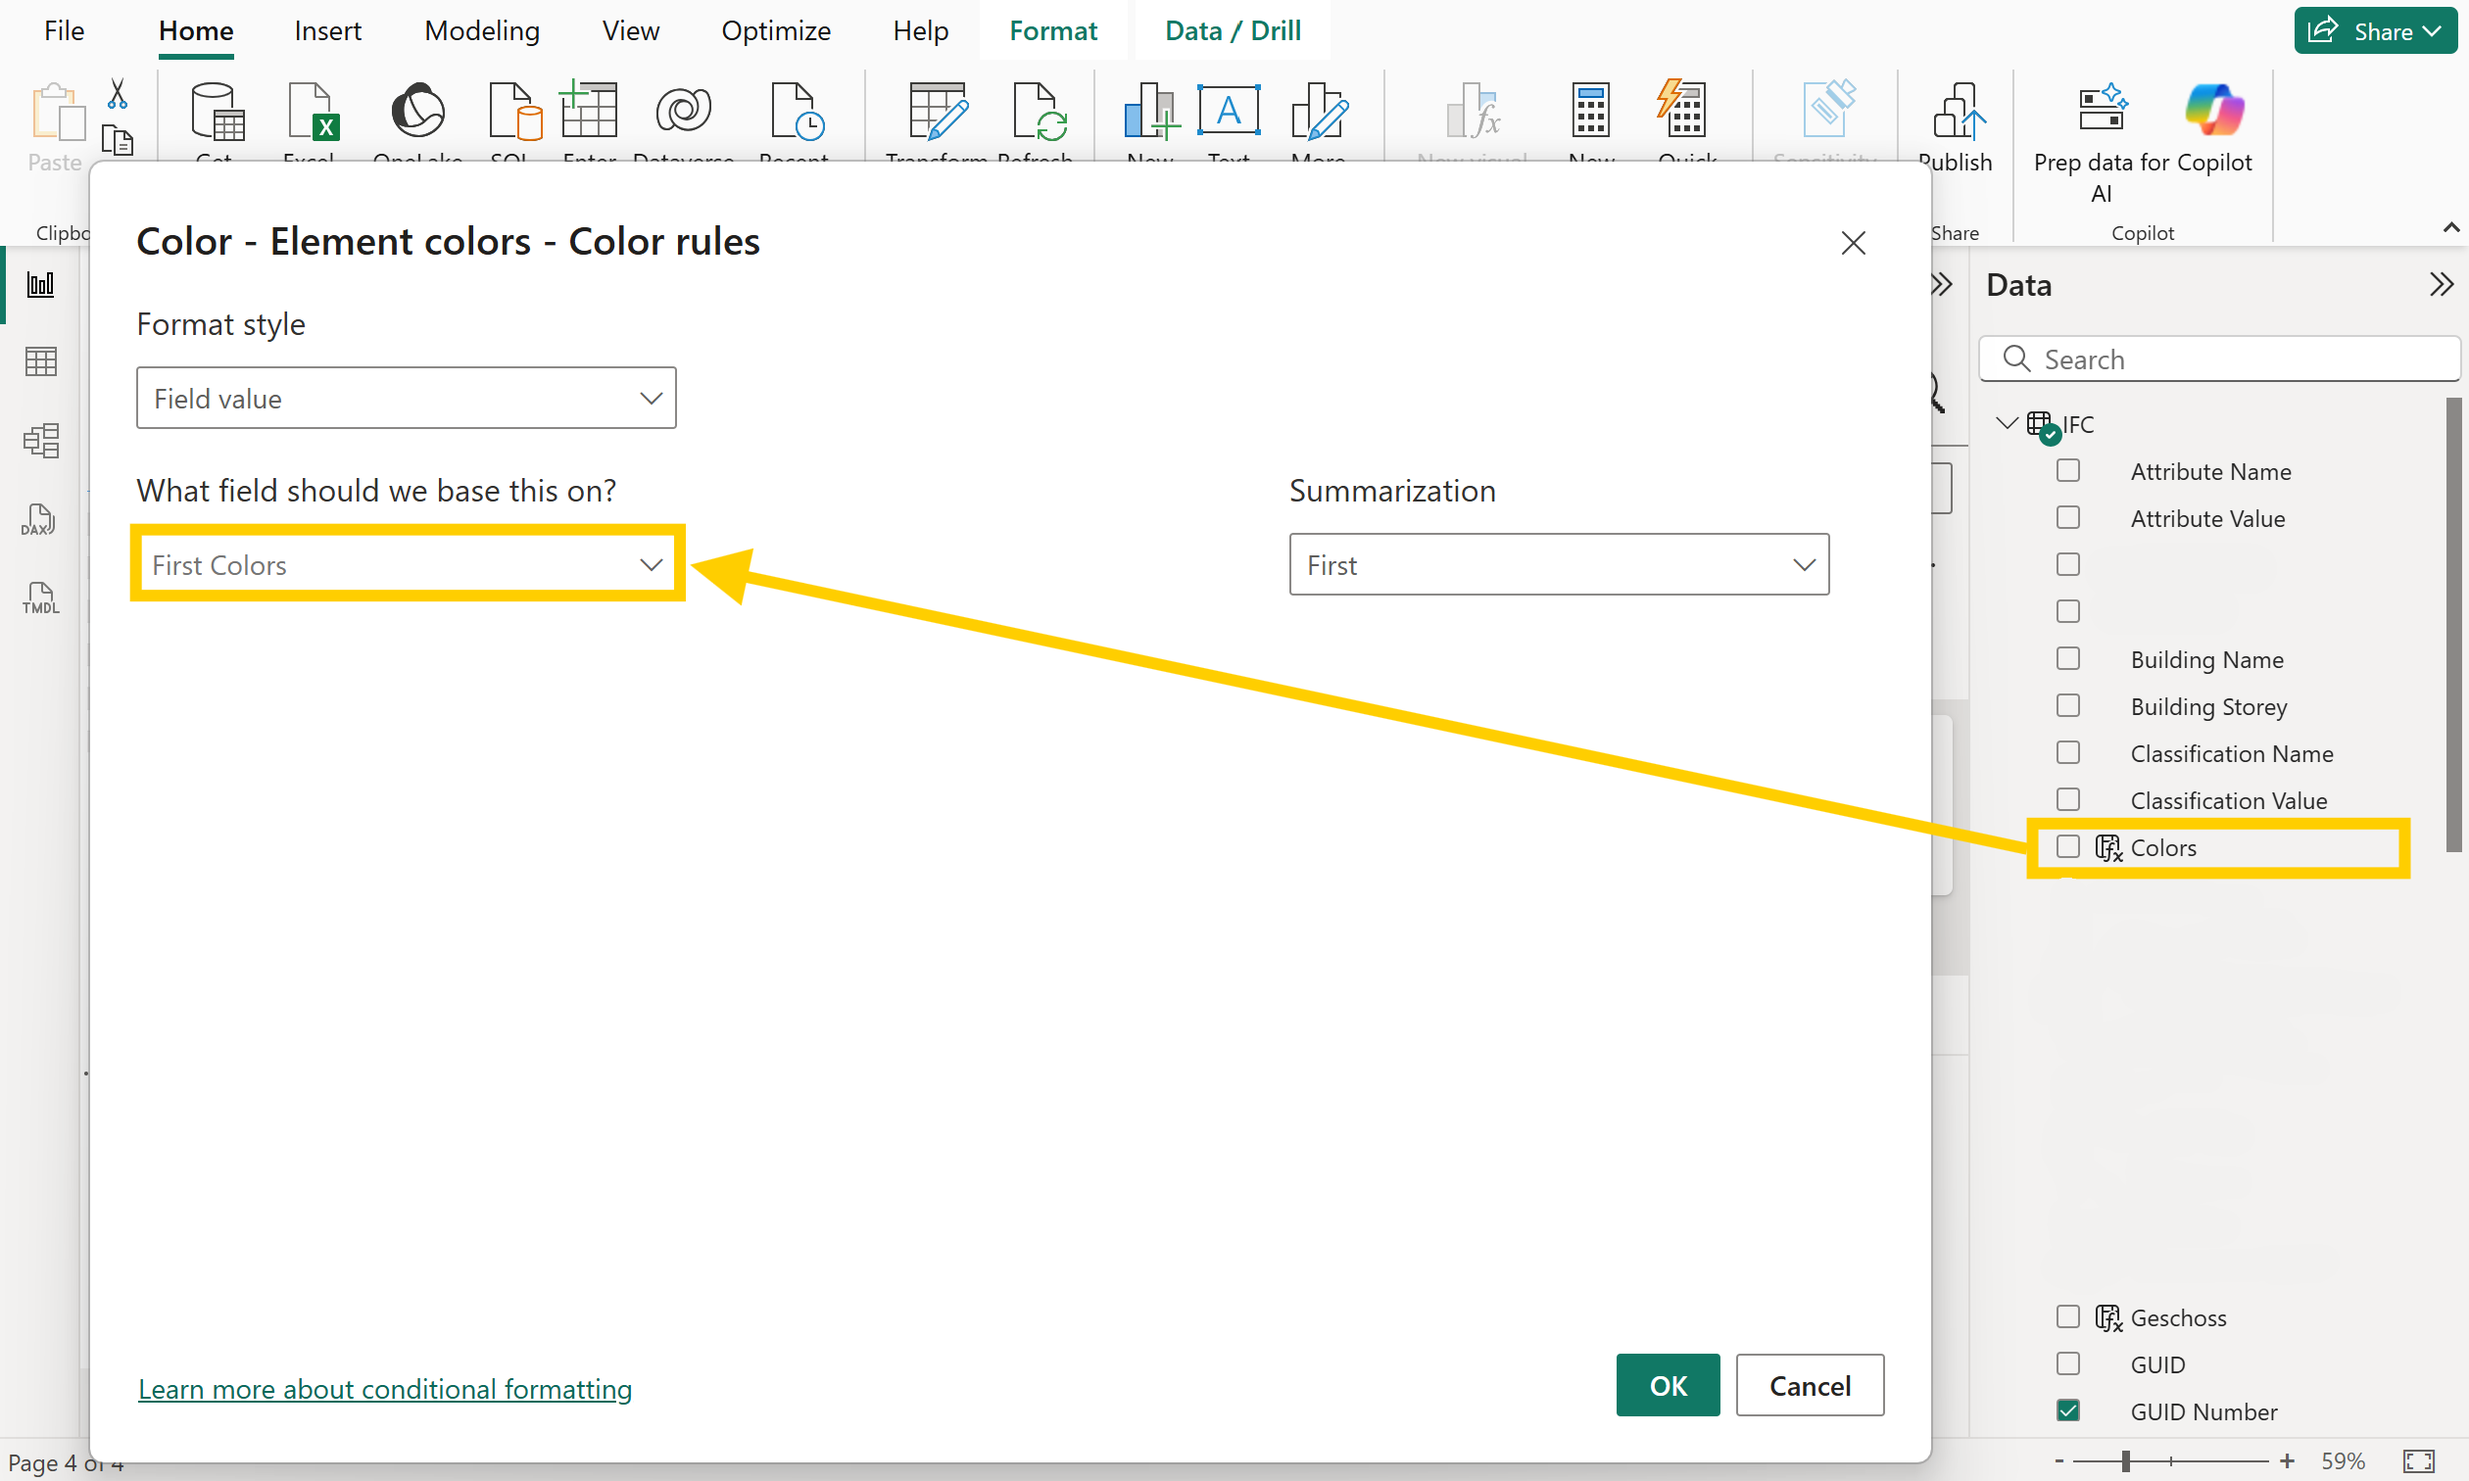
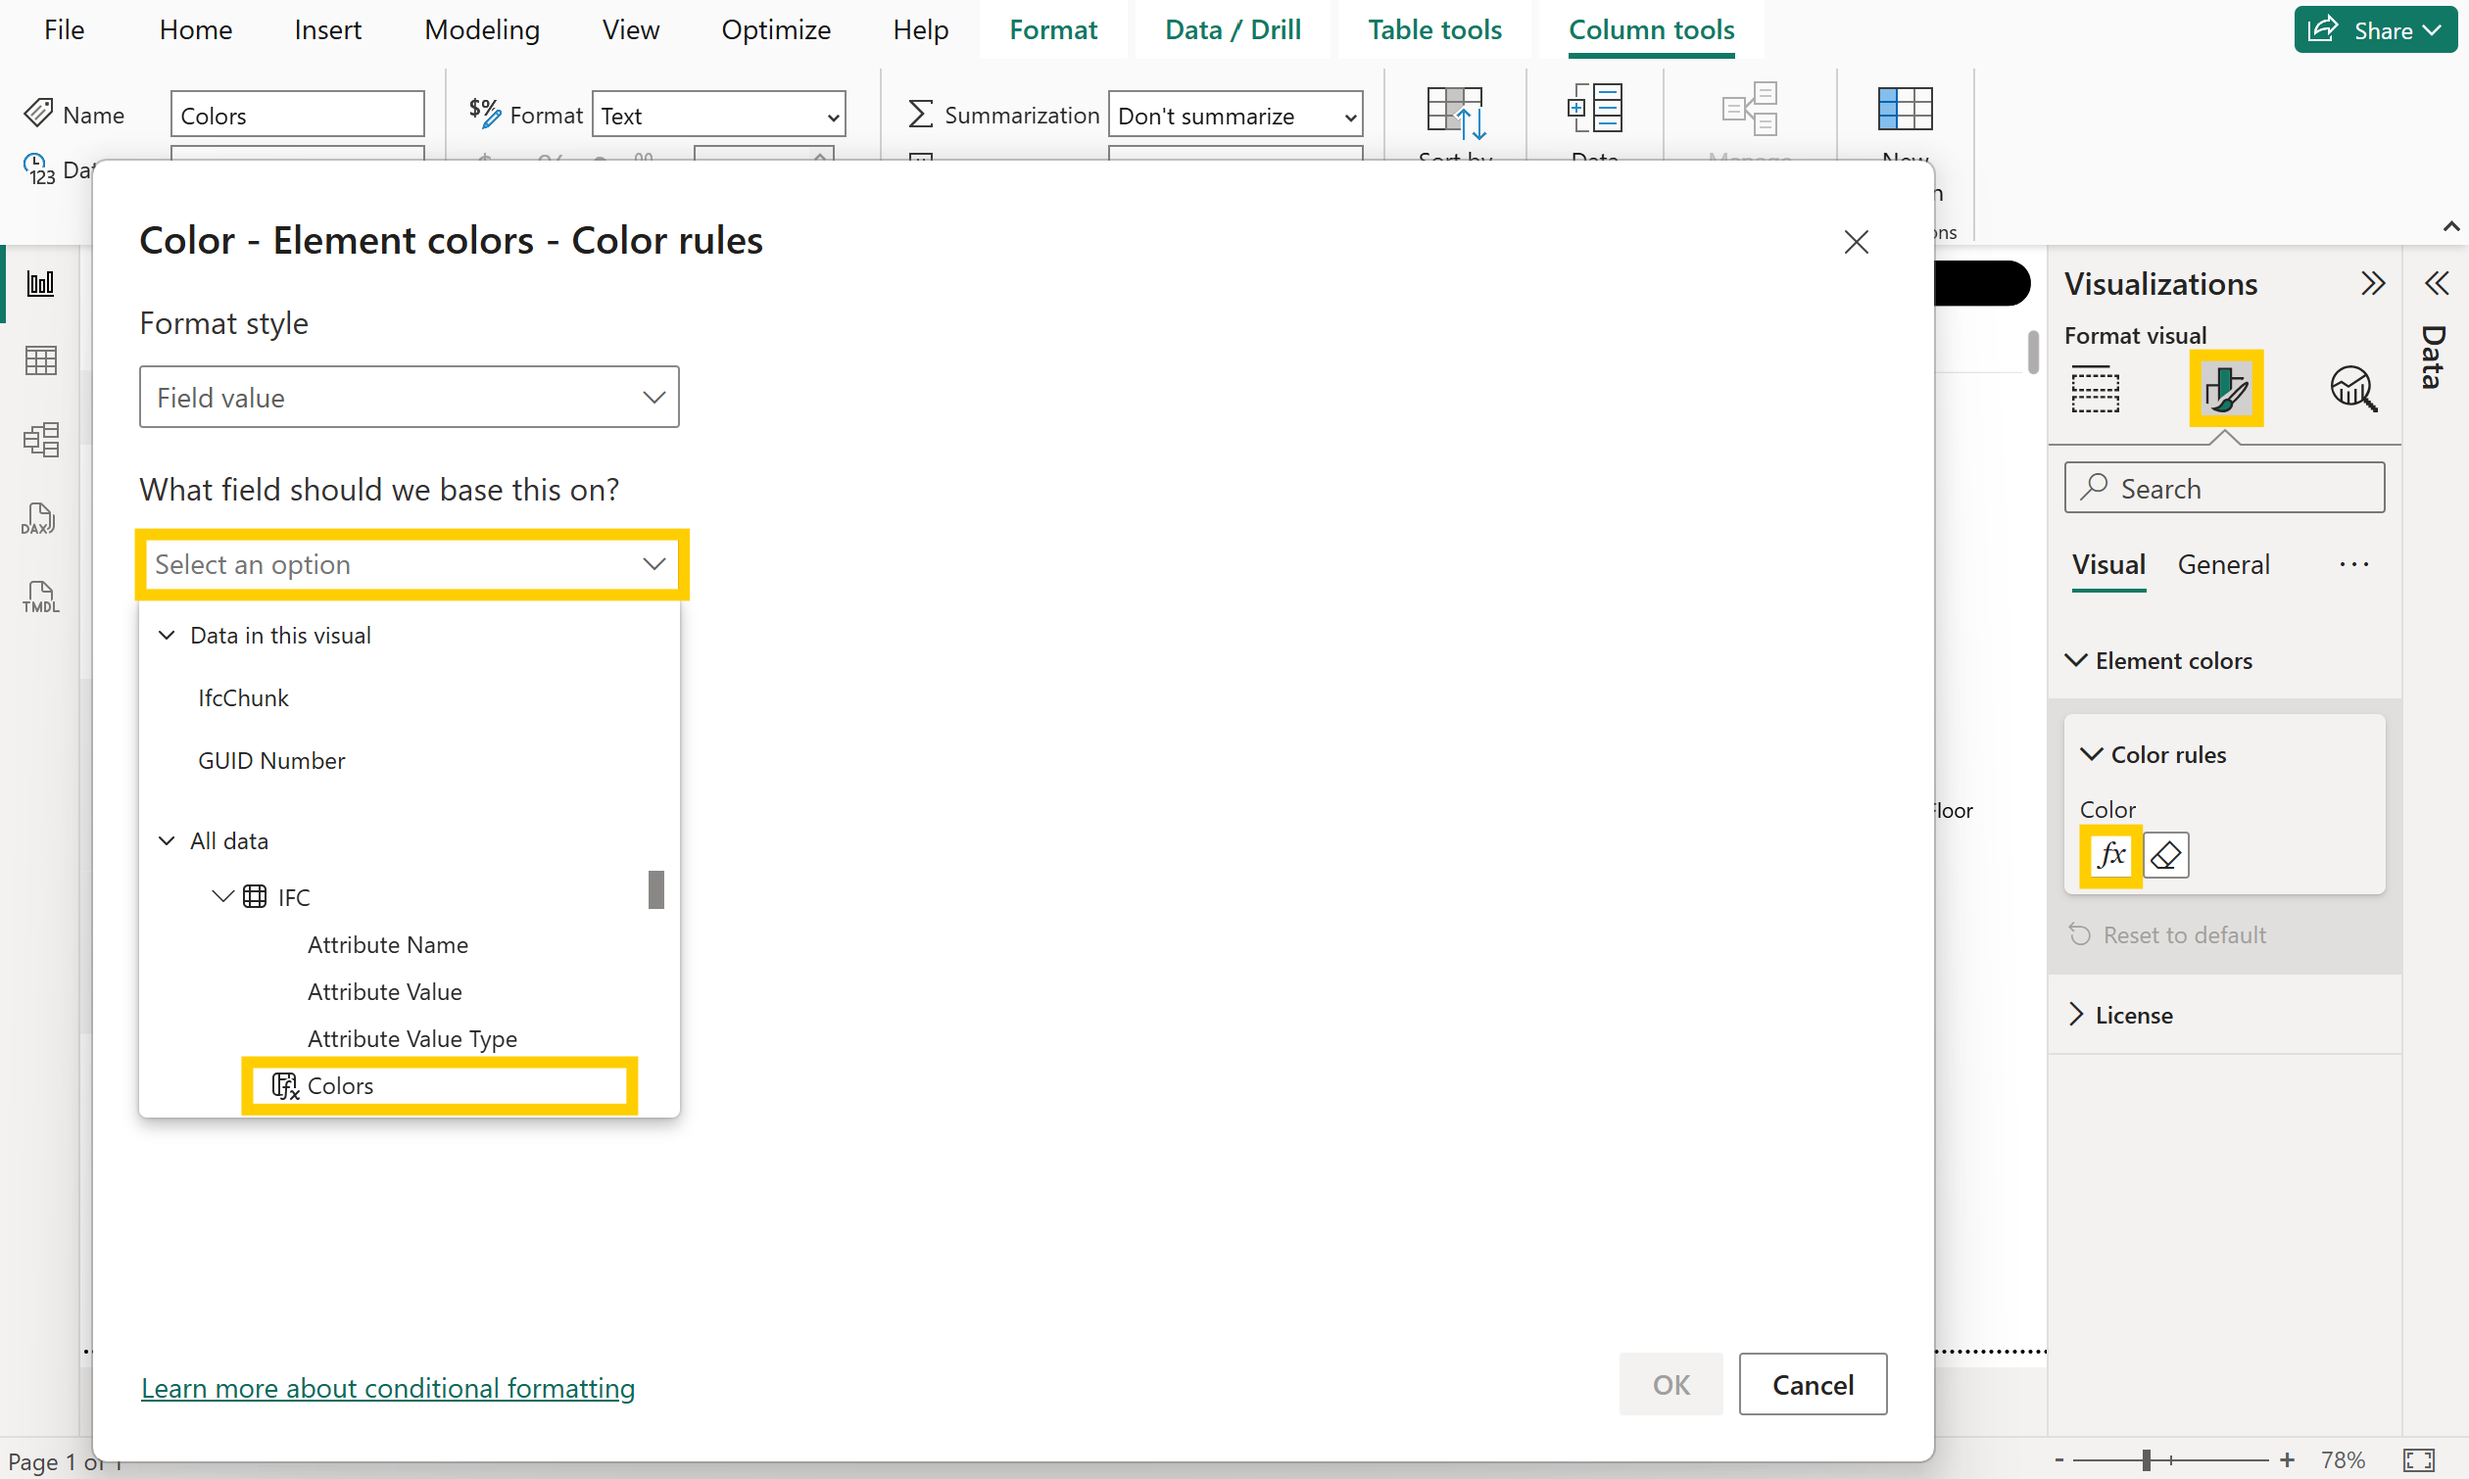
Updated color docs

diff --git a/docs/ifc-viewer-color-rules-for-power-bi.md b/docs/ifc-viewer-color-rules-for-power-bi.md
@@ -51,7 +51,8 @@ Use this mode when the color should come from the dataset:
         "" -- default
     )
    ``` 
-    - This DAX formula allows complex element filtering - walls turn red and any element containing "door" in its name becomes blue. Elements not matching any condition keep their default appearance.
+   ![Conditional formatting using manual color rules](/_media/create-colors-column-in-power-bi-visual.png)
+    - This DAX formula allows complex element filtering - walls turn red and any element containing "door" in its name becomes blue. Elements not matching any condition keep their default appearance. 
     - Leverage any DAX logic including CONTAINS, CONTAINSSTRING, comparison operators (<, >, =), AND/OR conditions, or numerical checks. Examples:
       ```
       -- Multiple string checks
@@ -66,12 +67,13 @@ Use this mode when the color should come from the dataset:
           'IFC'[FireRating] = "EI60"
       )
       ```
-2. Select the IFC Viewer visual on your report canvas.
-3. Open Format visual > Element colors > Color rules and set Format style to Field value.
-4. Pick the column that holds the color code under What field should we base this on? (for example, IFC[Colors] or Colors[Color]).
-5. Confirm with OK. The visual now reads the hex or color name from your dataset and applies it directly to each element.
+1. Select the IFC Viewer visual on your report canvas.
+2. Open Format visual > Element colors > Color rules and set Format style to Field value.
+   ![Conditional formatting using a color field](/_media/color-conditional-formatting-with-field-value-in-power-bi-visual.png)
+3. Pick the column that holds the color code under What field should we base this on? (for example, IFC[Colors] or Colors[Color]).
+4. Confirm with OK. The visual now reads the hex or color name from your dataset and applies it directly to each element.
 
-![Conditional formatting using a color field](/_media/color-conditional-formatting-with-field-value-in-power-bi-visual.png)
+
 
 > [!TIP]
 > Field‑value formatting keeps palettes consistent across visuals. Reuse the same color table for other charts and slicers so that statuses or disciplines always appear with the same color.
